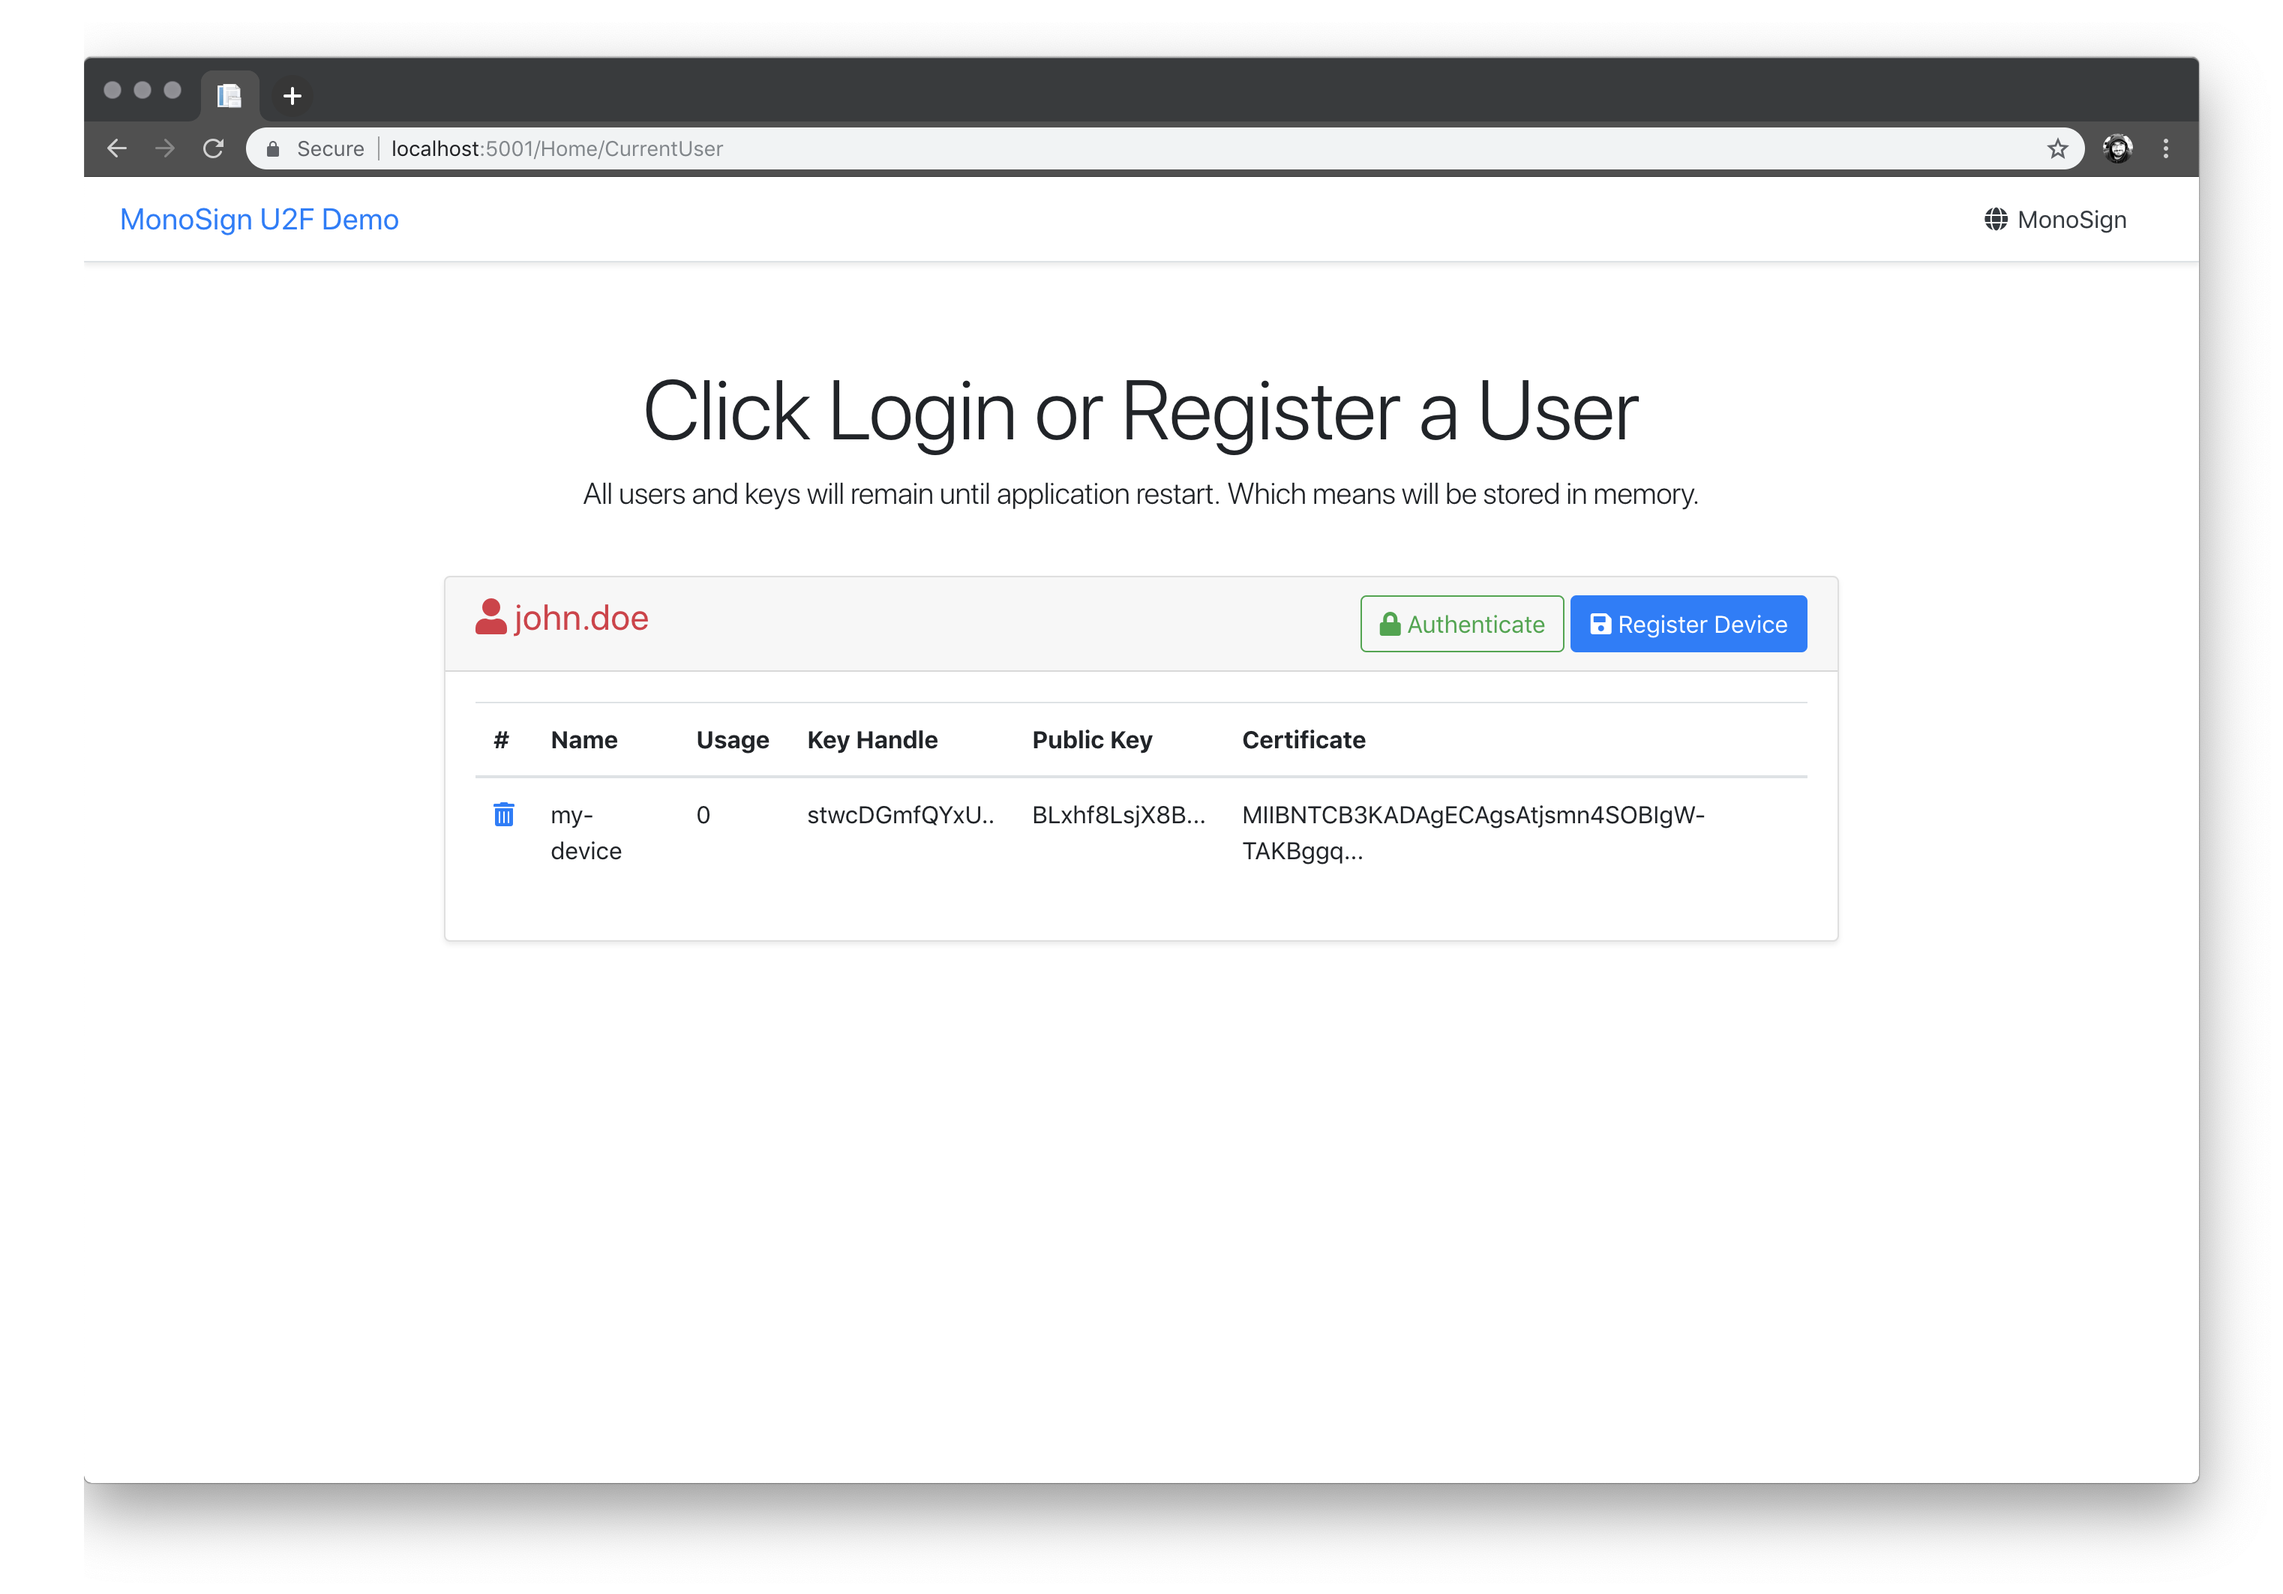
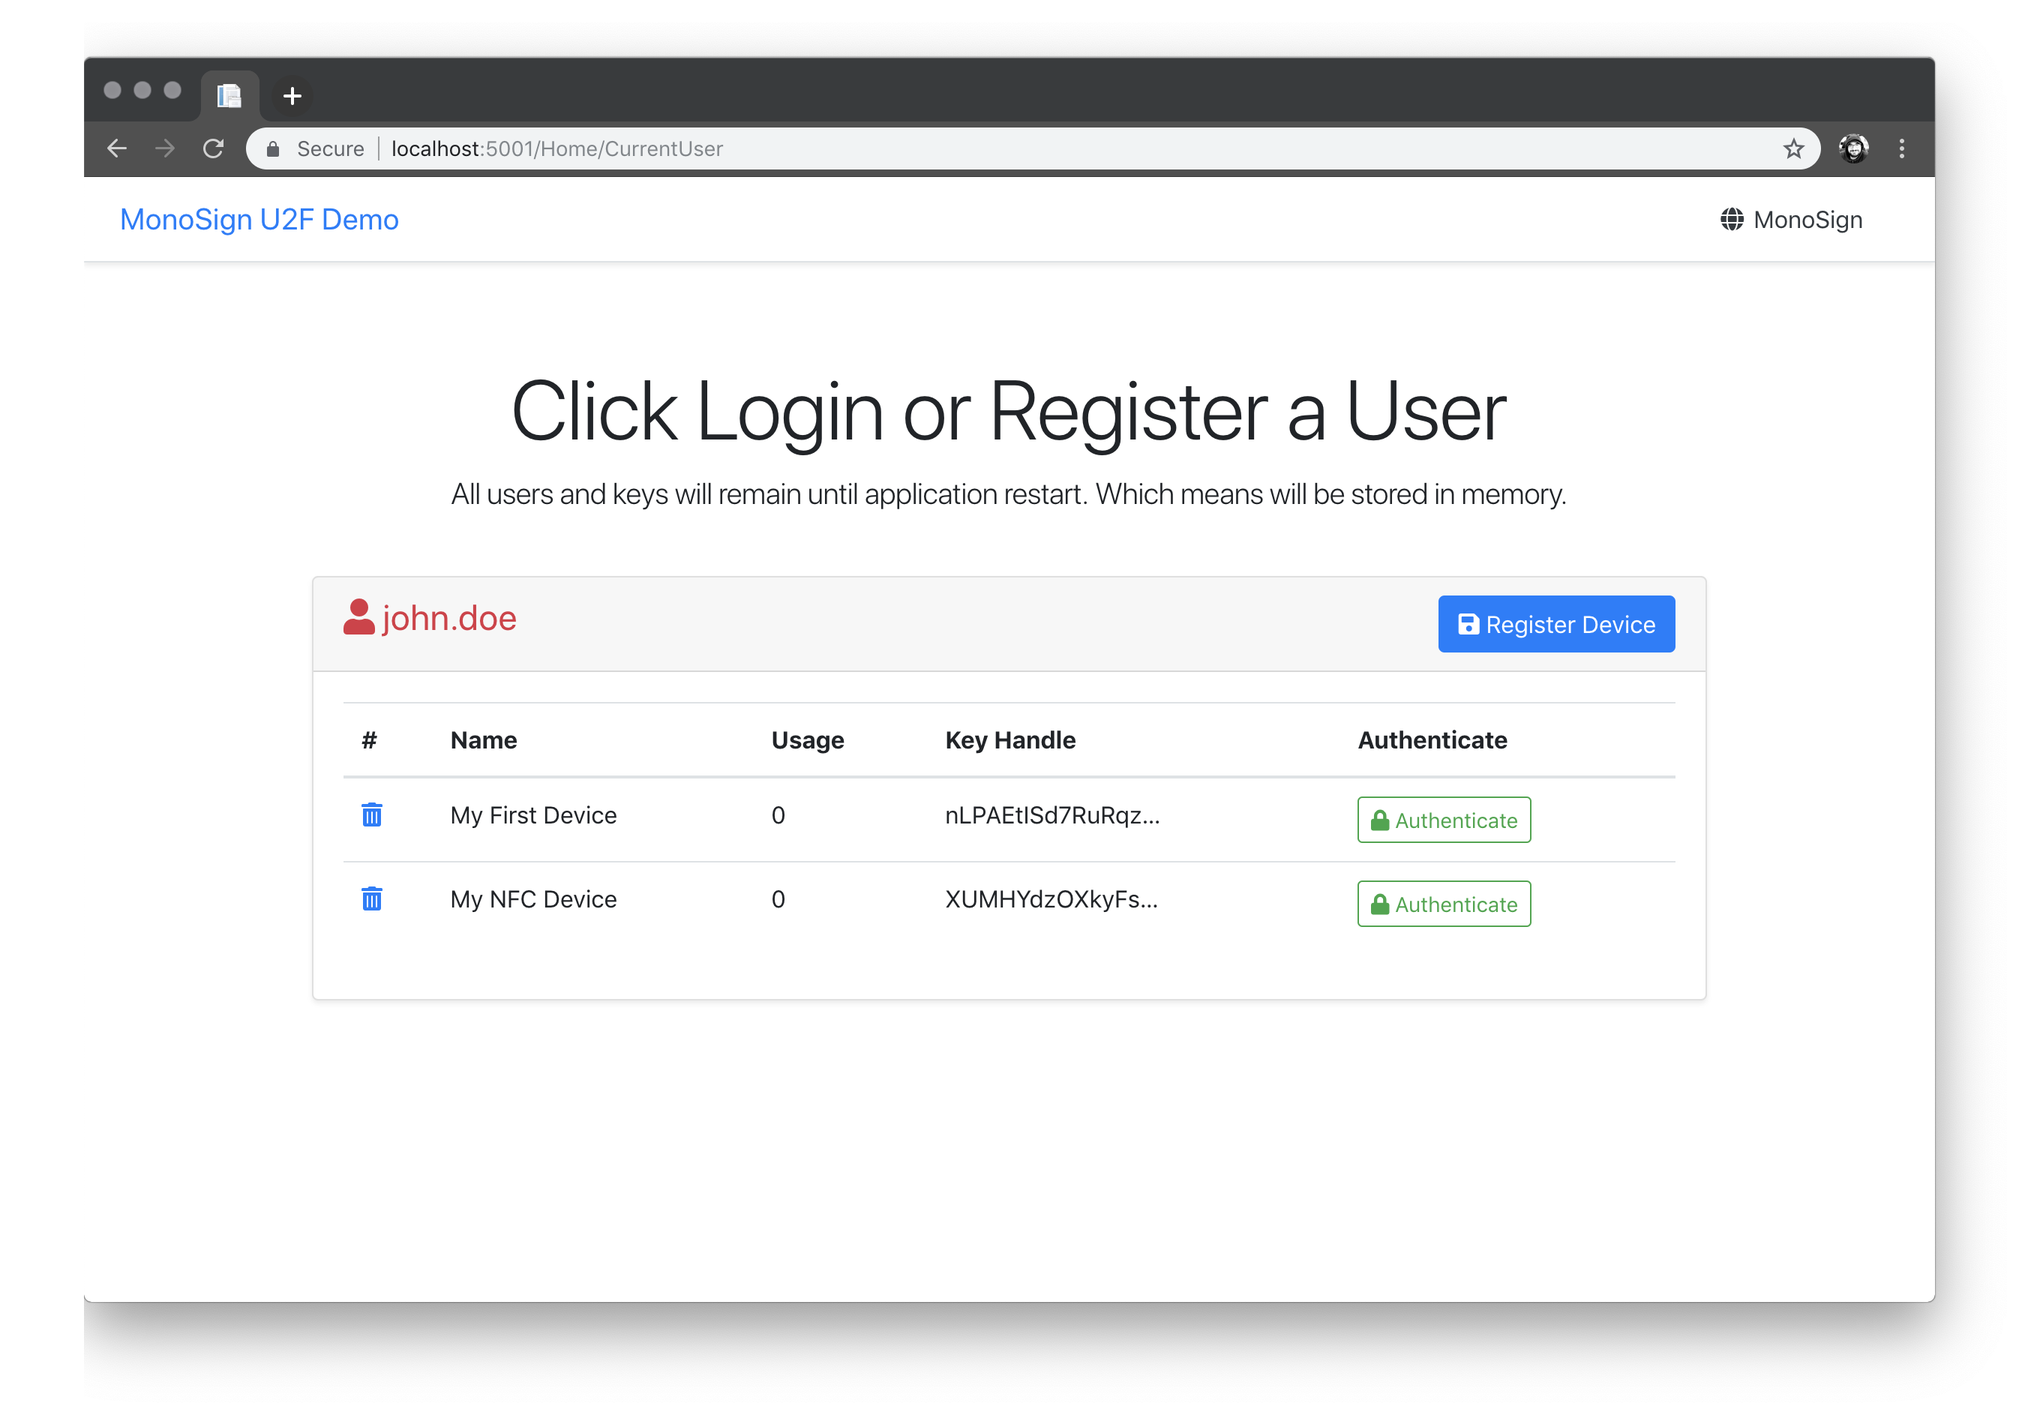
Screenshots are updated.

diff --git a/src/MonoSign.U2F.Demo/wwwroot/js/u2f-app.js b/src/MonoSign.U2F.Demo/wwwroot/js/u2f-app.js
@@ -212,7 +212,7 @@ function checkResult(result) {
         setTimeout(function () {
                 location.href = result.redirect;
             },
-            1000);
+            1500);
     }
 
     return true;

diff --git a/README.md b/README.md
@@ -20,6 +20,10 @@ Demo project is just testing purpose. Do not use it on production.
 - Device Duplication Check
 - Device Name Duplication Check
 
+### What about Nuget Packages?
+
+Nuget packages will be ready soon and automated for next updates.
+
 ### Screenshots
 
 #### Main
@@ -32,6 +36,10 @@ Demo project is just testing purpose. Do not use it on production.
 ![Registered](docs/img/registered-device.png "Registered")
 #### Already Registered
 ![Already Registered](docs/img/already-registered-device.png "Already Registered")
+#### Authenticate
+![Authenticate](docs/img/authenticate-screen.png "Authenticate")
+#### Already Registered
+![Authenticate Completed](docs/img/authenticate-completed-screen.png "Authenticate Completed")
 
 
 ### FIDO Universal 2nd Factor (U2F) for C# .NET
